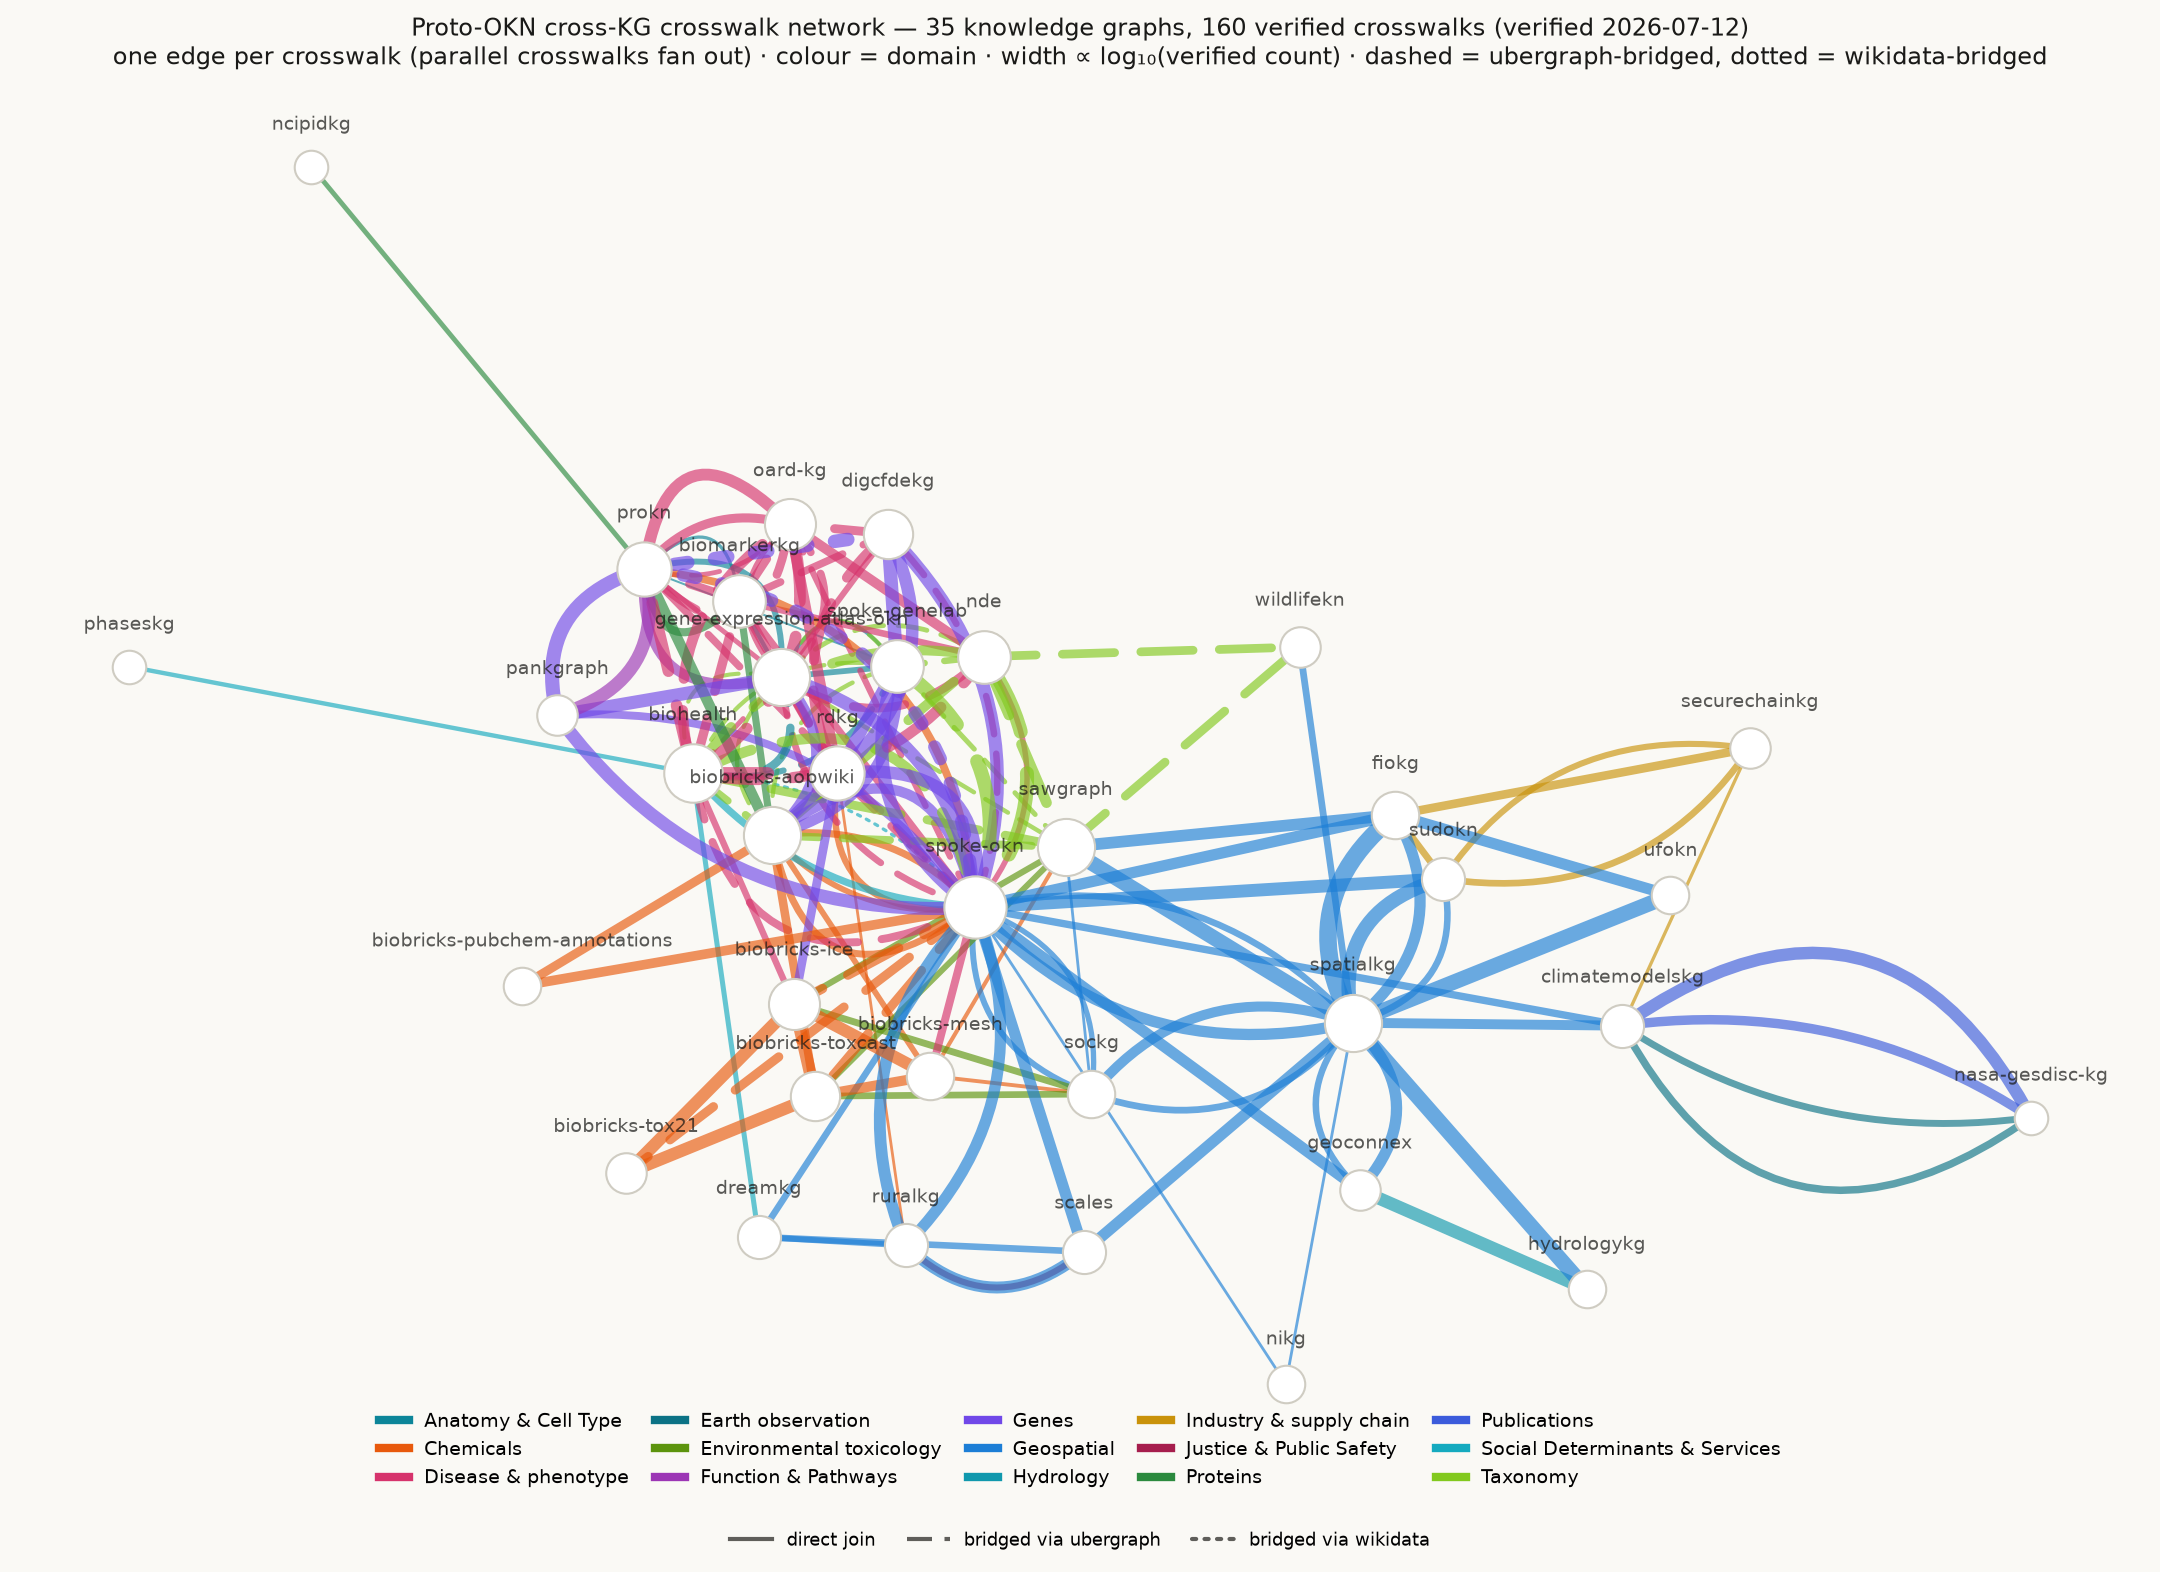
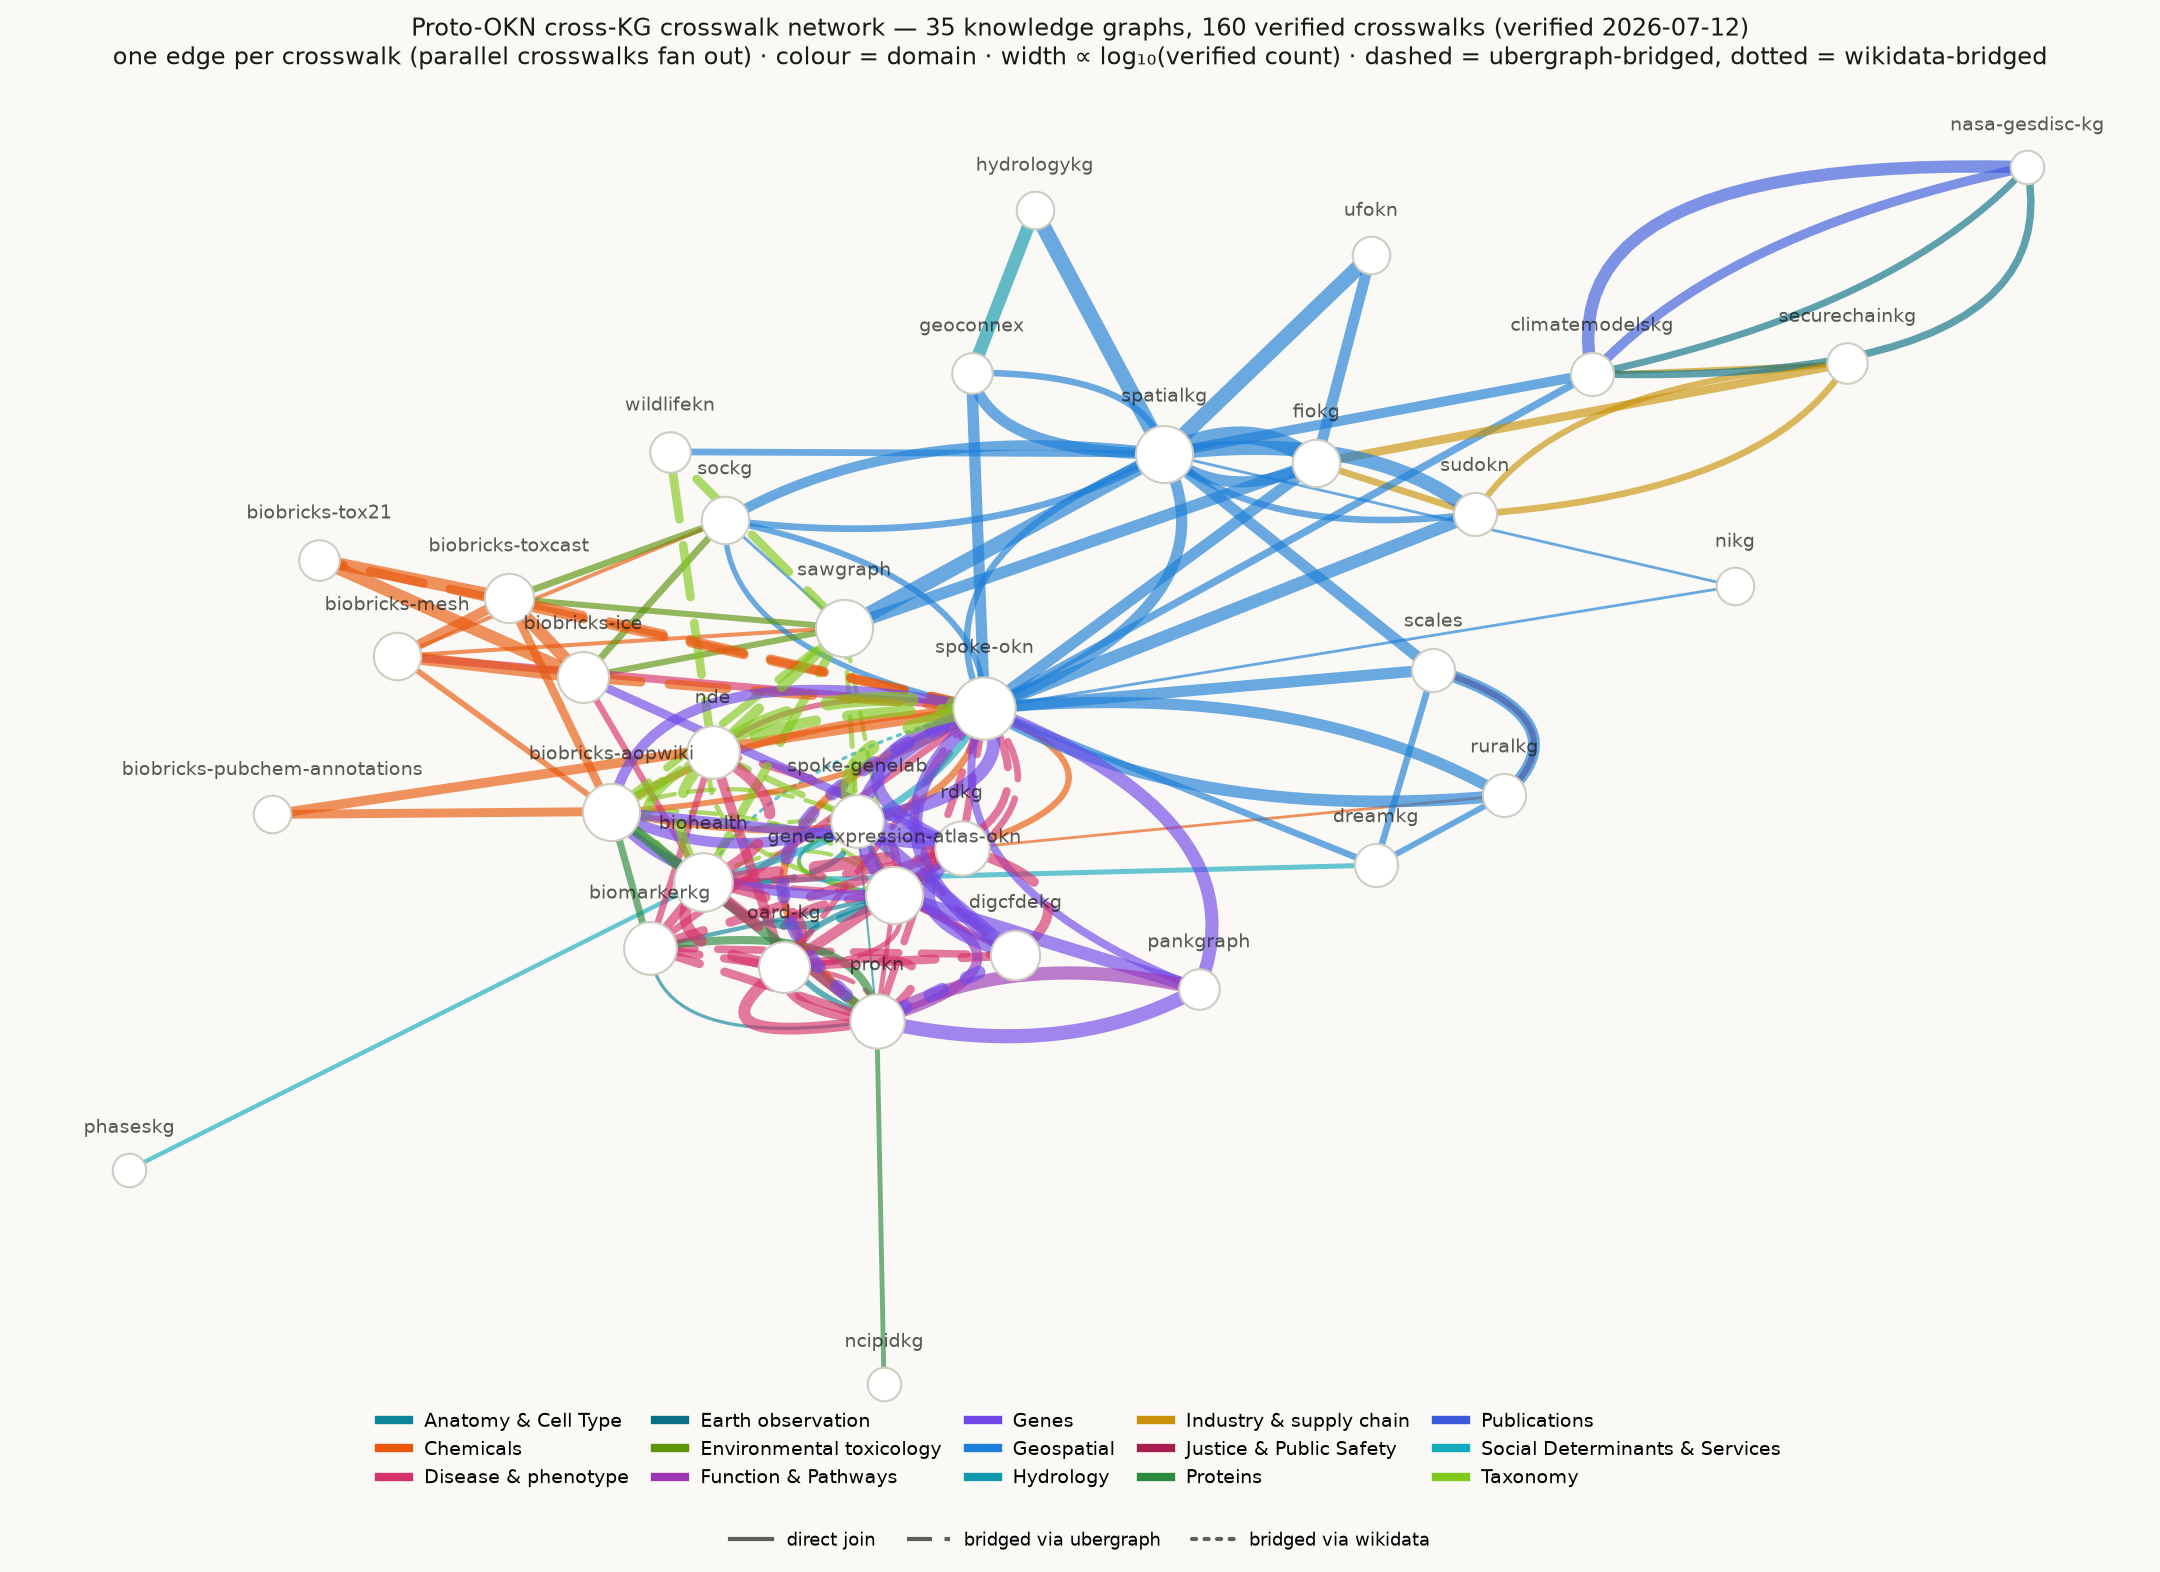
fix(figure): make the network PNG render deterministic, and regenerate it
Regenerating the PNG produced a DIFFERENT image every time from identical input —
three consecutive renders gave three different files (540KB / 516KB / 606KB), same
dimensions, different pixels from the first IDAT chunk. So the committed figure was
never reproducible, and any re-render created meaningless binary churn in the diff.

Cause: `nodeset` is a set, and `G.add_nodes_from(nodeset)` handed networkx a
different node order on every process (str hashing is randomized per-process by
PYTHONHASHSEED). spring_layout assigns its seeded starting positions in
node-insertion order, so the layout was non-reproducible DESPITE seed=11 — the seed
only fixes the RNG, not the order it is consumed in.

Fix: insert nodes and edges in sorted order. Three renders in separate processes now
produce byte-identical output.

The HTML figure was already correct and needed no regeneration (example questions do
not affect topology); only the PNG is updated here. It now shows the session's work:
the new Hydrology domain in the legend (geoconnex–hydrologykg COMID edge),
biobricks-pubchem-annotations de-islanded via Chemicals edges, biobricks-mesh wired
into the chemical cluster, and climatemodelskg–nasa-gesdisc-kg carrying four parallel
edges. 35 graphs, 160 crosswalks, verified 2026-07-12.

Note the PNG remains NOT test-guarded (only the HTML is, via
test_network_figure_matches_generator) — but it is at least reproducible now, so a
guard is newly feasible if wanted.

diff --git a/scripts/render_crosswalk_network_png.py b/scripts/render_crosswalk_network_png.py
@@ -95,8 +95,14 @@ def nr(n):
 
 
 G = nx.Graph()
-G.add_nodes_from(nodeset)
-for pr, grp in pg.items():
+# Insert nodes and edges in a STABLE order. `nodeset` is a set, so iterating it
+# directly hands networkx a different node order on every process (str hashing is
+# randomized by PYTHONHASHSEED). spring_layout assigns its seeded starting
+# positions in node-insertion order, so an unsorted set made the layout — and thus
+# the rendered PNG — non-reproducible despite seed=11: three runs over identical
+# input produced three different images. Sorting makes the render deterministic.
+G.add_nodes_from(sorted(nodeset))
+for pr, grp in sorted(pg.items()):
     G.add_edge(pr[0], pr[1], weight=0.3 + lw(max(L[3] for L in grp)) * 0.12)
 pos = nx.spring_layout(G, k=0.62, iterations=600, weight="weight", seed=11)
 
